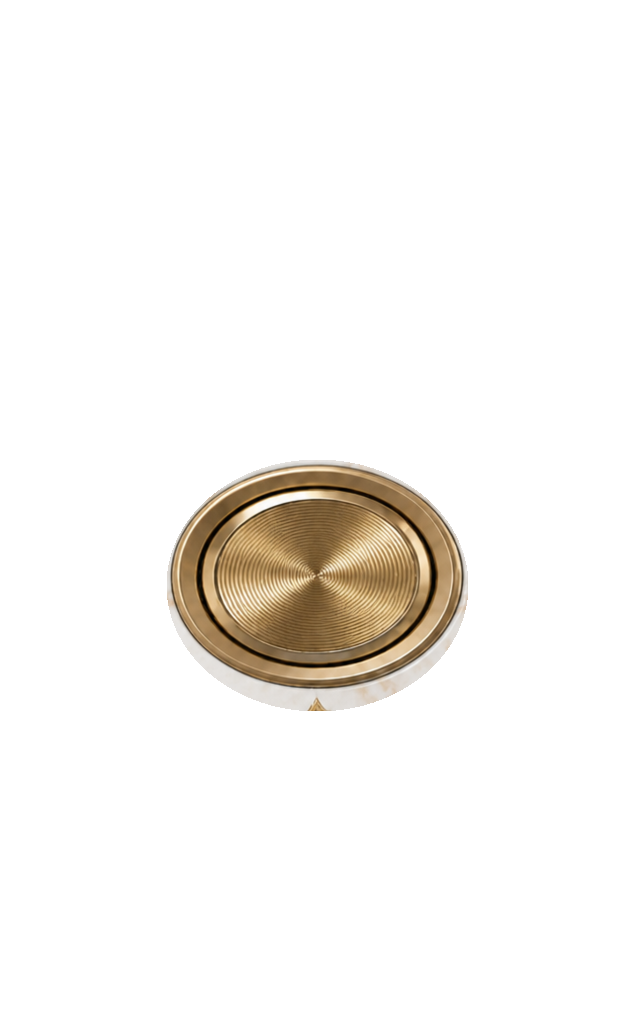
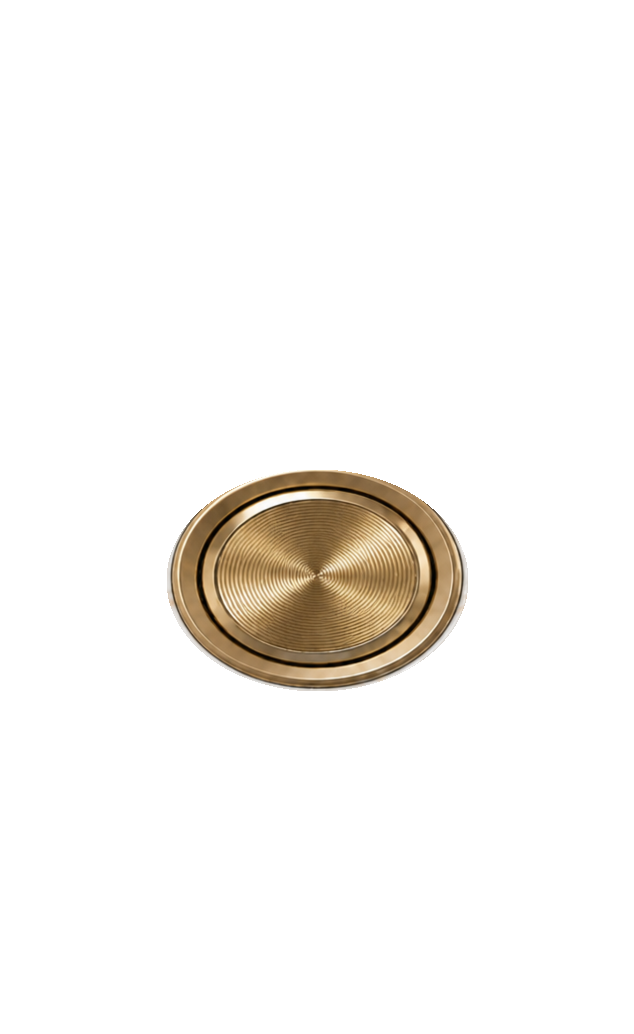
Update tasbeeh counter UI and dial asset
Replit-Commit-Author: Agent

diff --git a/artifacts/tasbeeh-counter/app/index.tsx b/artifacts/tasbeeh-counter/app/index.tsx
@@ -395,7 +395,7 @@ export default function HomeScreen() {
            </View> : null}
            {selectedTarget ? <View style={[styles.selectorProgressTrack, { backgroundColor: palette.surfaceStrong }]}><Animated.View style={[styles.selectorProgress, { width: animatedProgressWidth, backgroundColor: completionFlash ? palette.primaryBright : palette.primary, shadowColor: palette.primaryBright }]} /></View> : null}
         </View>
-             <View style={[styles.counterDeviceStage, compactCounter && styles.counterDeviceStageCompact, { flex: 1 }]}><View style={[styles.deviceContactShadow, pressed && { opacity: 0.18, transform: [{ scaleX: 0.78 }, { translateY: 2 }] }]} />{counterAssetsReady ? <HardwareCounter count={currentCount} width={deviceWidth} palette={palette} counterImage={COUNTER_IMAGES[appState.accentTheme]} counterTheme={appState.accentTheme} scale={scale} pressed={pressed} completionFlash={completionFlash} disabled={!hydrated} onPress={increment} onPressIn={() => setPressed(true)} onPressOut={() => setPressed(false)} /> : <View style={[styles.hardware, { width: deviceWidth, height: deviceWidth * 1.38, backgroundColor: palette.surfaceStrong, opacity: 0.35 }]} />}</View>
+           <View style={[styles.counterDeviceStage, compactCounter && styles.counterDeviceStageCompact, { flex: 1 }]}>{counterAssetsReady ? <HardwareCounter count={currentCount} width={deviceWidth} palette={palette} counterImage={COUNTER_IMAGES[appState.accentTheme]} counterTheme={appState.accentTheme} scale={scale} pressed={pressed} completionFlash={completionFlash} disabled={!hydrated} onPress={increment} onPressIn={() => setPressed(true)} onPressOut={() => setPressed(false)} /> : <View style={[styles.hardware, { width: deviceWidth, height: deviceWidth * 1.38, backgroundColor: palette.surfaceStrong, opacity: 0.35 }]} />}</View>
           <View style={[styles.counterQuote, compactCounter && styles.counterQuoteCompact, { marginBottom: 50 }]}><Text style={[styles.counterQuoteText, { color: palette.foreground }]}>“In the remembrance of Allah{'\n'}do hearts find peace.”</Text><View style={[styles.counterQuoteRule, { backgroundColor: palette.primaryBright }]} /><Text style={[styles.counterQuoteCitation, { color: palette.muted }]}>(Quran 13:28)</Text></View>
              <View pointerEvents="box-none" style={{ alignItems: 'flex-end', marginTop: compactCounter ? 0 : 3, paddingRight: 3, position: 'absolute', right: 0, bottom: 4, zIndex: 10, elevation: 10 }}><Pressable testID="reset-counter" accessibilityRole="button" accessibilityLabel={'Reset ' + selectedDhikr.name + ' counter'} hitSlop={10} onPressIn={() => { if (appStateRef.current.vibration) Haptics.selectionAsync().catch(() => undefined); }} onPress={() => setResetting(true)} style={({ pressed: p }) => [{ width: 46, height: 46, borderRadius: 23, borderWidth: 1, borderColor: isSandalwood || isArabesqueWhite ? palette.primary : palette.border, backgroundColor: 'rgba(18, 18, 18, 0.68)', alignItems: 'center', justifyContent: 'center', shadowColor: palette.primary, shadowOpacity: 0.18, shadowRadius: 10, shadowOffset: { width: 0, height: 4 }, elevation: 3, transform: [{ scale: p ? 0.9 : 1 }], opacity: p ? 0.78 : 1 }]}><Feather name="rotate-ccw" size={18} color={isSandalwood || isArabesqueWhite ? palette.destructive : palette.primaryBright} /></Pressable></View>
          </View>
